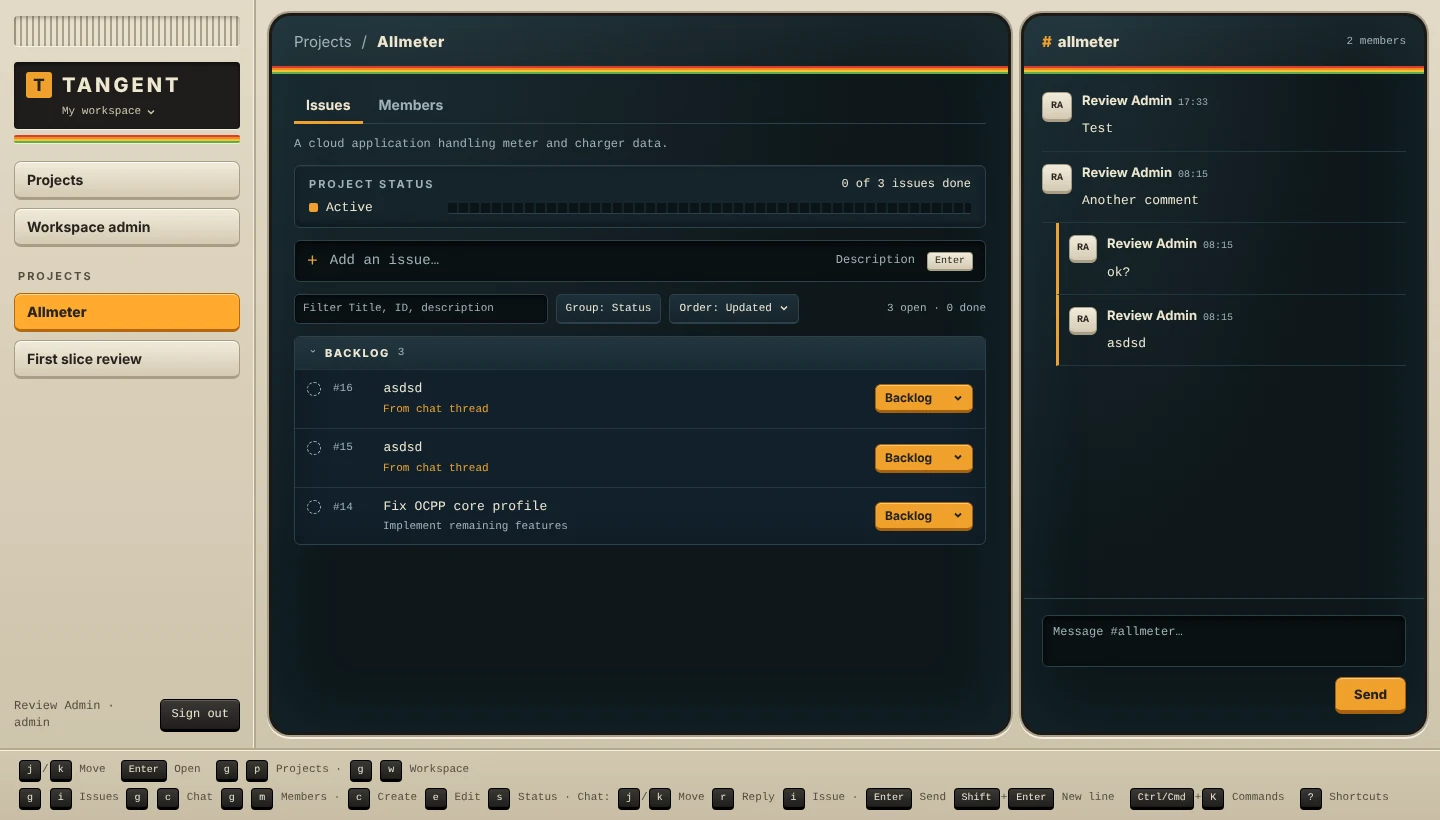
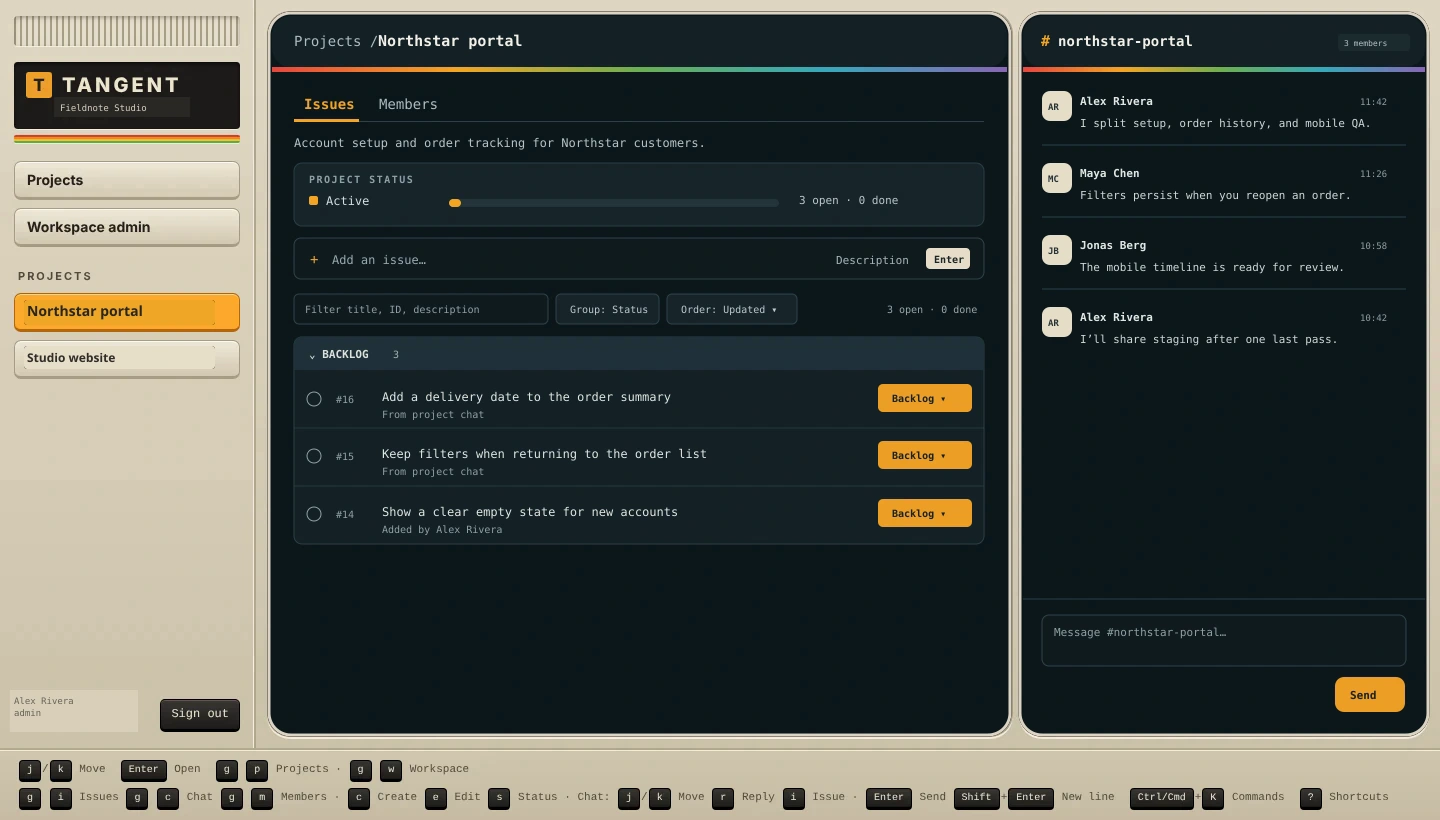
Refresh README screenshots with realistic sample data

diff --git a/README.md b/README.md
@@ -19,7 +19,7 @@ Aimed at freelancers, small remote teams and studios that coordinate client work
 
 ![Client portal, guest view](assets/screenshots/guest-portal.webp)
 
-*Screenshots use sample data.*
+*Screenshots use fictional sample data.*
 
 ## Install on shared hosting
 
